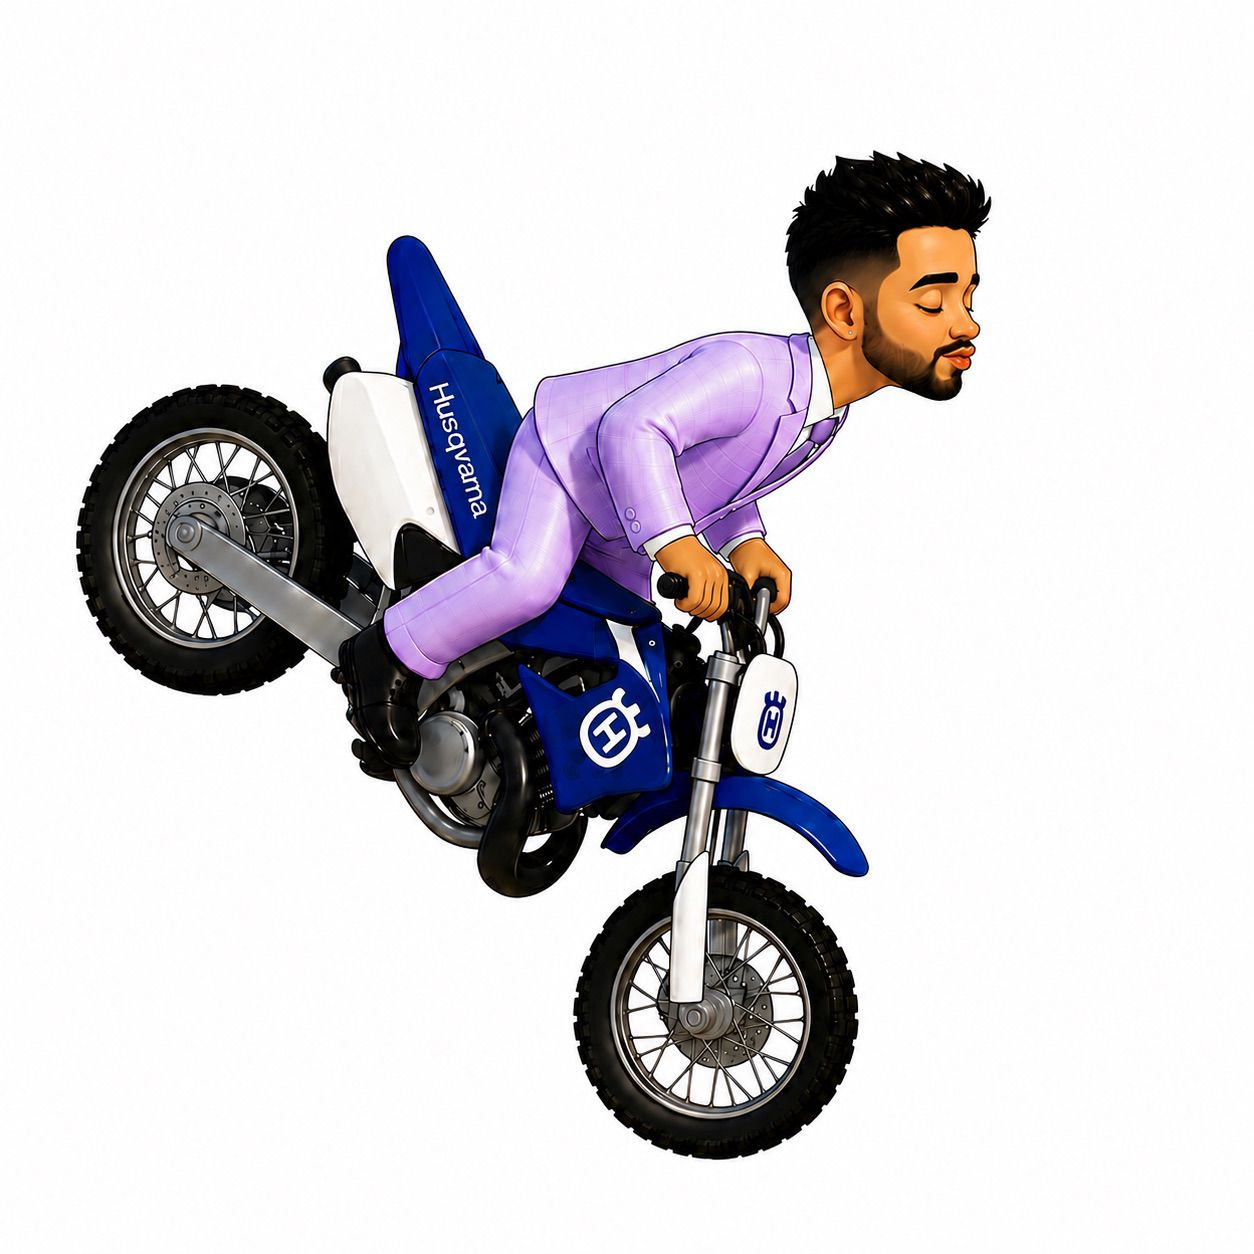
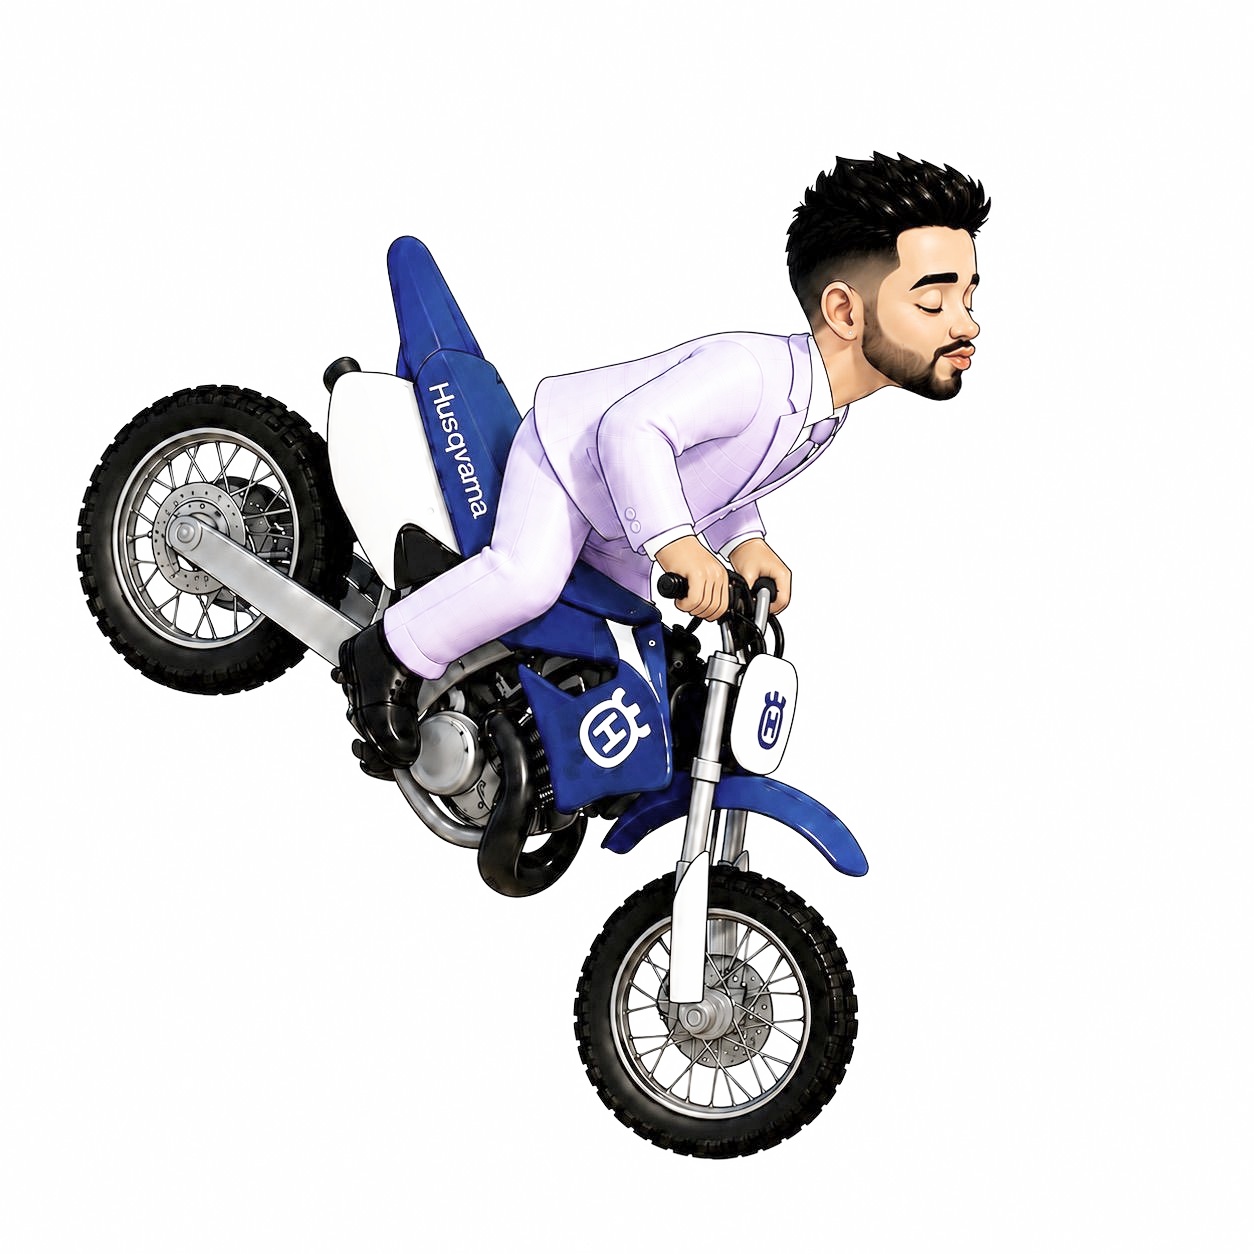
Convert PNGs to transparent (alpha channel) + revert mix-blend-mode

Changed region(s): [[0.0622, 0.1244, 0.7775, 0.9019]]

diff --git a/index.html b/index.html
@@ -45,10 +45,10 @@ html,body{width:100%;min-height:100vh;background:#f0e8f8;display:flex;justify-co
   overflow:visible;
 }
 #bride{
-  position:absolute;bottom:0;right:18px;height:150px;object-fit:contain;z-index:6;mix-blend-mode:multiply;
+  position:absolute;bottom:0;right:18px;height:150px;object-fit:contain;z-index:6;
 }
 #groom{
-  position:absolute;bottom:1.280em;left:-14px;height:140px;object-fit:contain;z-index:7;mix-blend-mode:multiply;
+  position:absolute;bottom:1.280em;left:-14px;height:140px;object-fit:contain;z-index:7;
   transition:left 1.5s cubic-bezier(0.4,0,0.2,1);
 }
 #groom.arrive{ left:170px; }
@@ -103,9 +103,9 @@ html,body{width:100%;min-height:100vh;background:#f0e8f8;display:flex;justify-co
 .hero-amp{display:block;font-family:'Cormorant Garamond',serif;font-style:italic;font-size:28px;color:var(--gold);margin:4px 0;}
 .hero-date{font-size:12px;letter-spacing:3px;color:var(--text-soft);margin-top:14px;text-transform:uppercase;}
 .hero-chars{position:relative;width:100%;height:160px;margin-top:24px;margin-bottom:-10px;}
-.hero-chars img{position:absolute;height:160px;object-fit:contain;bottom:0;mix-blend-mode:multiply;}
-.hero-chars img:first-child { left:60px;bottom:15px; }
-.hero-chars img:last-child { right:60px;bottom:0; }
+.hero-chars img{position:absolute;height:160px;object-fit:contain;bottom:0;}
+.hero-chars img:first-child { left:50px;bottom:15px; }
+.hero-chars img:last-child { right:50px;bottom:0; }
 
 #s-msg{background:linear-gradient(160deg,var(--sage-l),#f8f0fc);text-align:center;}
 .msg-initials{font-family:'Cormorant Garamond',serif;font-style:italic;font-size:42px;color:var(--sage-d);letter-spacing:6px;margin-bottom:16px;}
@@ -147,9 +147,9 @@ html,body{width:100%;min-height:100vh;background:#f0e8f8;display:flex;justify-co
 .chars-quote{font-family:'Cormorant Garamond',serif;font-style:italic;font-size:16px;color:var(--text-dark);line-height:1.8;margin-bottom:8px;padding:0 10px;}
 .chars-sig{font-family:'Cormorant Garamond',serif;font-style:italic;font-size:20px;color:var(--sage-d);}
 .chars-img-wrap{position:relative;width:100%;height:170px;margin-top:16px;}
-.chars-img-wrap img{position:absolute;height:170px;object-fit:contain;bottom:0;mix-blend-mode:multiply;}
-.chars-img-wrap img:first-child { left:55px;bottom:20px; }
-.chars-img-wrap img:last-child { right:55px;bottom:0; }
+.chars-img-wrap img{position:absolute;height:170px;object-fit:contain;bottom:0;}
+.chars-img-wrap img:first-child { left:45px;bottom:20px; }
+.chars-img-wrap img:last-child { right:45px;bottom:0; }
 
 #s-confirm{background:#faf5f8;text-align:center;}
 .confirm-title{font-family:'Playfair Display',serif;font-size:22px;color:var(--text-dark);margin-bottom:8px;}